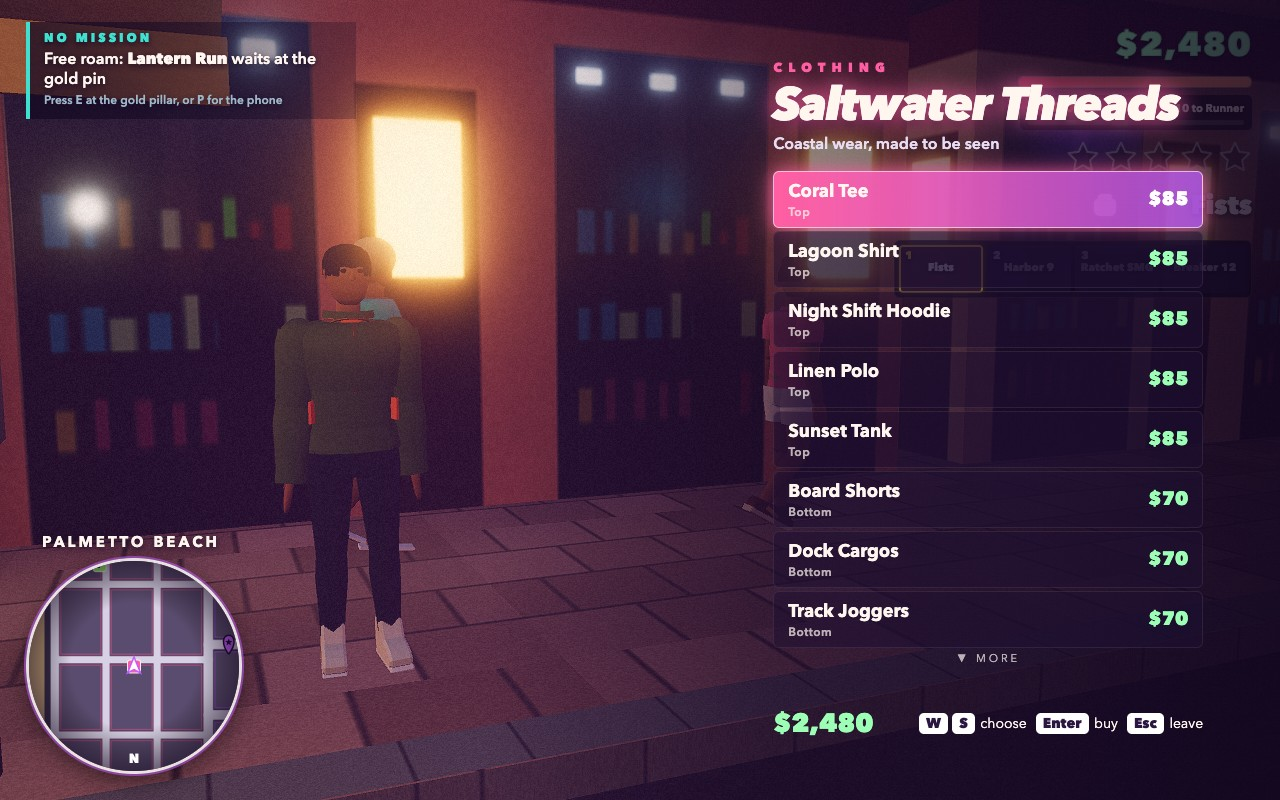
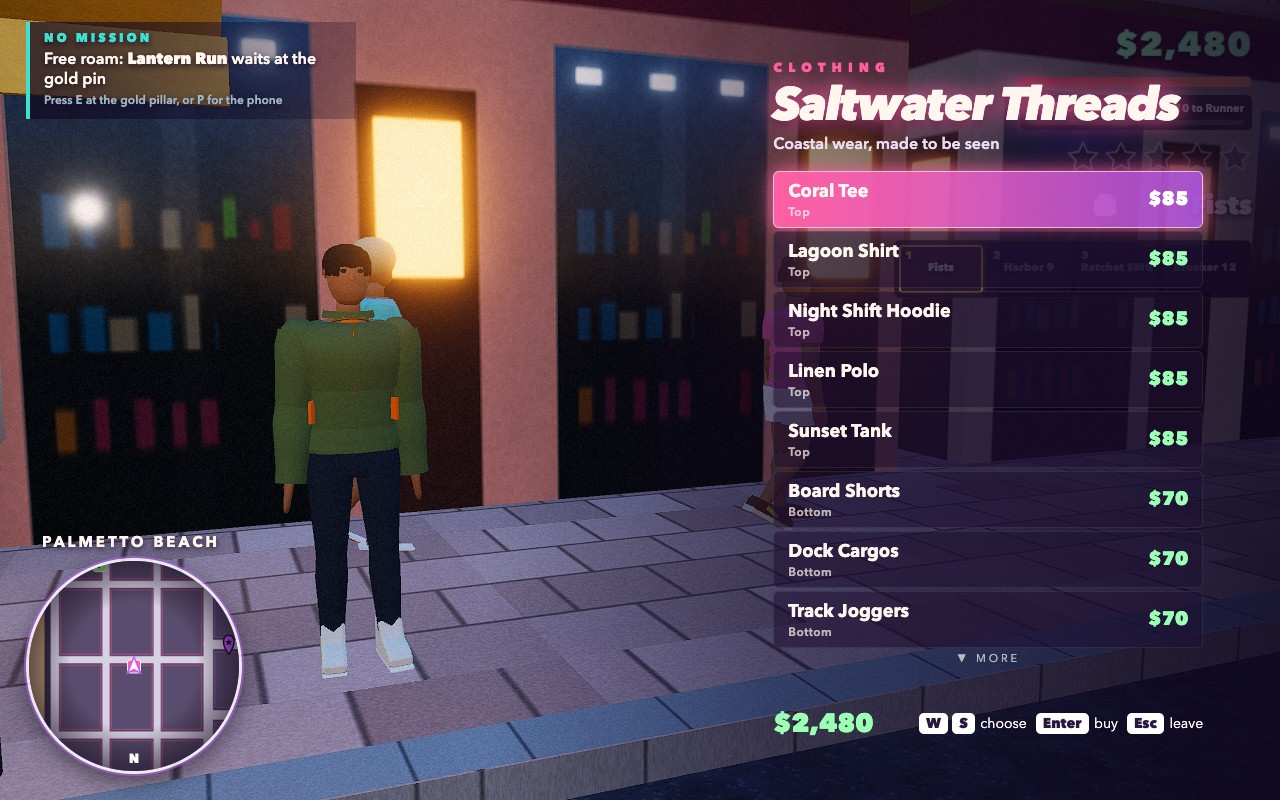
style(cover): golden combat and shop scenes, brighter light from recording 6c

diff --git a/game/src/shotsaction.js b/game/src/shotsaction.js
@@ -46,35 +46,47 @@ const FIGHT = { x: 97, z: -34, steps: 64 };
 
 export const ACTION_SHOTS = {
   combat: {
-    time: 'dusk',
+    // Golden light from the north-east behind the camera: Ilo, the cruiser, both officers and the people running
+    // along the pavements all face the sun, so they read in colour at thumbnail size.
+    time: 'golden',
     steps: FIGHT.steps,
-    focus: [100, 0, -50],
+    focus: [100, 0, -20],
     stage(game) {
       const { police } = game.action;
       const arsenal = game.player.state.arsenal;
       arsenal.owned.smg = { clip: 30, reserve: 90 };
       arsenal.current = 'smg';
-      game.player.placeOnFoot(FIGHT.x, FIGHT.z, Math.PI);
+      game.player.placeOnFoot(FIGHT.x, FIGHT.z, 0);
       police.setStars(2);
       const cruiser = game.fleet.reuse('cruiser', '#16203a');
-      const unit = police.units.adopt(cruiser, 102.5, FIGHT.z - 16, 2.3);
+      const unit = police.units.adopt(cruiser, 102.5, FIGHT.z + 16, Math.PI - 2.3);
       unit.vehicle.vx = 0;
       unit.vehicle.vz = 0;
       unit.officersOut = true;
-      for (const [x, dz, weapon] of [[95.5, -10.5, 'pistol'], [104.5, -11.5, 'shotgun']]) {
-        const officer = police.officers.deploy(x, FIGHT.z + dz, 0, weapon);
+      for (const [x, dz, weapon] of [[96, 10.5, 'pistol'], [104, 11.5, 'shotgun']]) {
+        const officer = police.officers.deploy(x, FIGHT.z + dz, Math.PI, weapon);
         officer.cooldown = 0.2;
       }
-      hideParkedNear(game, 100, FIGHT.z - 30, FIGHT.z + 6, 14);
+      // Parked cars and passing traffic both leave the block, so nothing stands between the camera and the fight.
+      const clearStreet = () => {
+        for (const car of game.fleet.cars) {
+          const { x, z } = car.position;
+          if (!car.police && Math.abs(x - 100) < 14 && z > FIGHT.z - 8 && z < FIGHT.z + 30) car.visible = false;
+        }
+      };
+      clearStreet();
+      // Bystanders: three running down the west pavement toward the camera, one on the east pavement, one
+      // cowering by the shops, two filming beyond the officers.
       const extras = [
-        [90.5, -4, 'flee', -0.9], [91.5, -7, 'flee', -1.3], [92.5, -2.5, 'flee', -1.0], [107.5, -6, 'cower', 0],
-        [109, -16, 'film', 0], [89.5, -18, 'film', 0], [93, 2, 'flee', -2.6],
+        [92, 17, 'flee', Math.PI + 0.3], [91, 19.5, 'flee', Math.PI + 0.5], [92.5, 15, 'flee', Math.PI + 0.2],
+        [108, 16, 'flee', Math.PI - 0.3], [107.5, 6, 'cower', 0], [108.5, 19, 'film', Math.PI],
+        [90.5, 20, 'film', Math.PI],
       ];
       extras.forEach(([x, dz, kind, angle], index) => {
         const ped = game.pedestrians.peds[index];
         ped.character.position.set(x, game.ground.surfaceAt(x, FIGHT.z + dz).height, FIGHT.z + dz);
         ped.react = { state: kind, timer: 9, dirX: Math.sin(angle), dirZ: Math.cos(angle), fromX: FIGHT.x,
-          fromZ: FIGHT.z - 8 };
+          fromZ: FIGHT.z + 16 };
         ped.character.held = kind === 'film' ? 'phone' : null;
       });
       game.cameraMode = 'manual';
@@ -82,15 +94,16 @@ export const ACTION_SHOTS = {
       return {
         input,
         afterStep(index) {
+          if (index === FIGHT.steps - 2) clearStreet();
           if (index !== FIGHT.steps - 1) return;
           const p = game.ilo.position;
           const hand = game.ilo.joints[PART.handR].elements;
           const aim = { x: Math.sin(game.ilo.heading), y: 0.02, z: Math.cos(game.ilo.heading) };
           const tip = { x: hand[12] + aim.x * 0.45, y: hand[13] + 0.05, z: hand[14] + aim.z * 0.45 };
           game.action.effects.muzzle(tip, aim);
-          game.camera.position.set(p.x + 1.5, p.y + 1.8, p.z + 3.4);
-          game.camera.lookAt(p.x - 0.6, p.y + 1.15, p.z - 12);
-          game.camera.fov = 56;
+          game.camera.position.set(p.x - 1.4, p.y + 1.75, p.z - 3.1);
+          game.camera.lookAt(p.x + 0.7, p.y + 1.1, p.z + 12);
+          game.camera.fov = 54;
           game.camera.updateProjectionMatrix();
         },
       };

diff --git a/game/src/shotsshop.js b/game/src/shotsshop.js
@@ -1,4 +1,4 @@
-// Shop screenshot scene: Ilo outside Saltwater Threads at dusk with $2,480 and the clothes menu open.
+// Shop screenshot scene: Ilo outside Saltwater Threads in late golden light with $2,480 and the clothes menu open.
 import { PLACES } from './data/places.js';
 
 const CLOTHES = PLACES.find((place) => place.id === 'clothes');
@@ -24,7 +24,7 @@ function frameShopper(game) {
 
 export const SHOP_SHOTS = {
   shop: {
-    time: 'dusk',
+    time: 'golden',
     steps: STEPS,
     focus: [CLOTHES.near[0], 0, CLOTHES.near[1]],
     stage(game) {

diff --git a/game/src/render/timeofday.js b/game/src/render/timeofday.js
@@ -65,7 +65,8 @@ const PRESETS = {
     sunGlow: '#ffe2b0',
     hemiSky: '#9cc8ff',
     hemiGround: '#8a7458',
-    hemiIntensity: 1.25,
+    // A strong sky fill: with the sun this low most streets lie in building shade.
+    hemiIntensity: 1.55,
     haze: '#f2d2b4',
     hazeDensity: 0.0006,
     hazeFalloff: 0.035,
